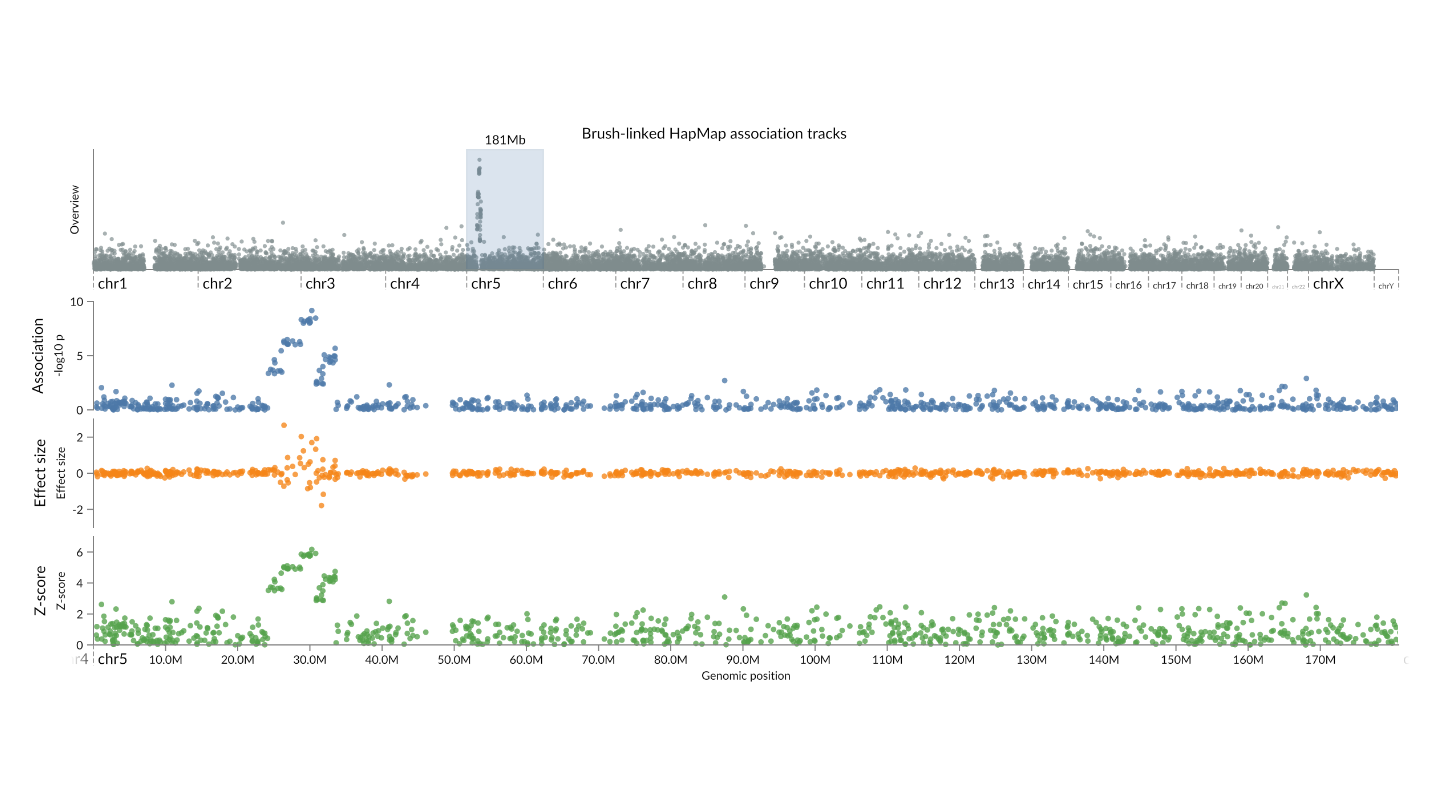
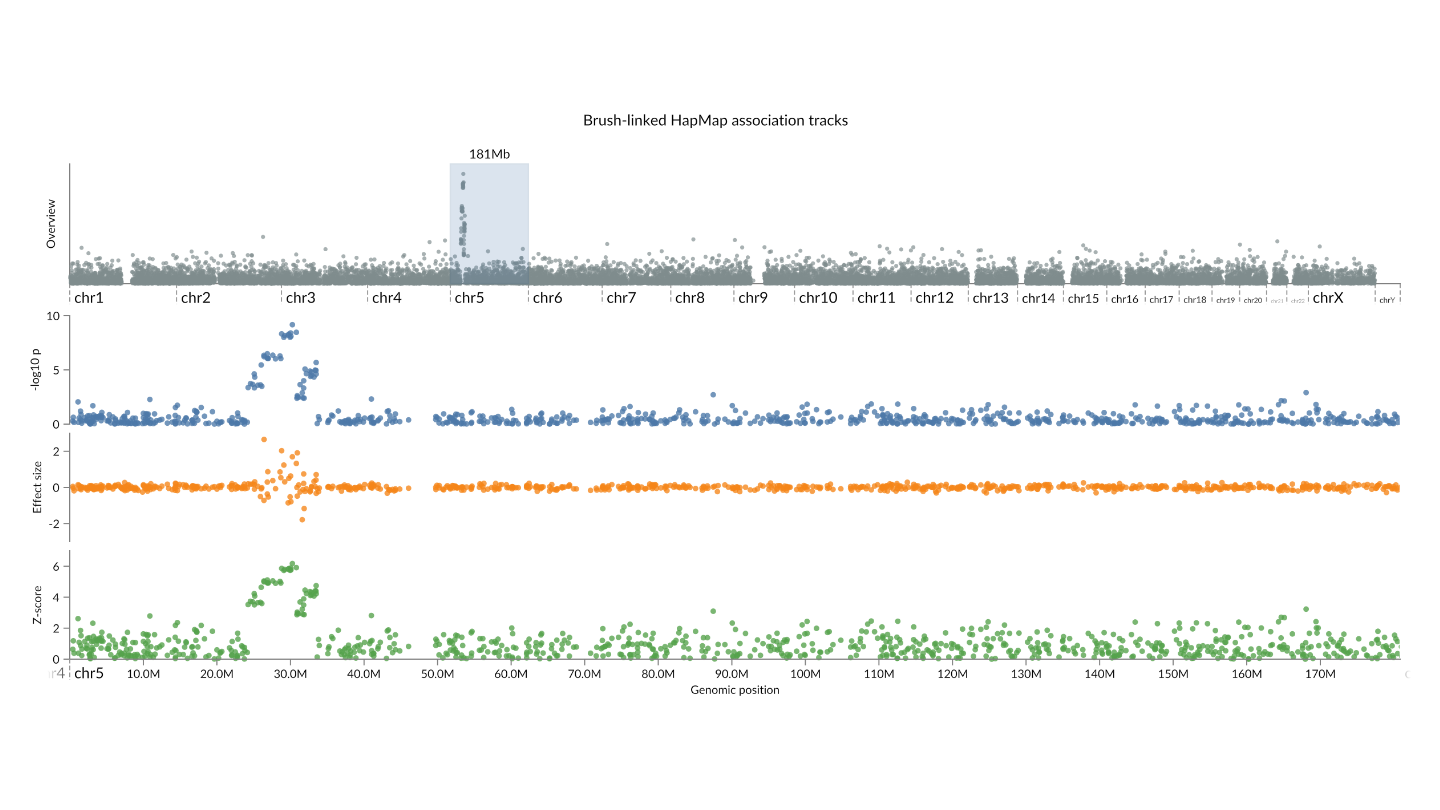
fix(docs): polish linked brush gallery

diff --git a/docs/examples/brush_linked_genome_tracks.py b/docs/examples/brush_linked_genome_tracks.py
@@ -49,6 +49,7 @@ overview_track = (
                     type="interval",
                     encodings=["x"],
                     mark=BrushConfig(
+                        clip=False,
                         fill="#4c78a8",
                         fillOpacity=0.2,
                         stroke="#315f8c",
@@ -62,7 +63,11 @@ overview_track = (
         ],
     )
 )
-overview = gs.vconcat(overview_track).resolve_scale(x="excluded")
+overview = (
+    gs.vconcat(overview_track)
+    .properties(padding=gs.Paddings(top=24))
+    .resolve_scale(x="excluded")
+)
 
 
 association_track = (
@@ -76,7 +81,6 @@ association_track = (
     .properties(
         name="association-strength",
         height=95,
-        title=gs.title("Association", orient="left"),
     )
 )
 
@@ -91,7 +95,6 @@ effect_track = (
     .properties(
         name="effect-size",
         height=95,
-        title=gs.title("Effect size", orient="left"),
     )
 )
 
@@ -106,7 +109,6 @@ zscore_track = (
     .properties(
         name="z-score",
         height=95,
-        title=gs.title("Z-score", orient="left"),
     )
 )
 

diff --git a/tests/test_docs_gallery.py b/tests/test_docs_gallery.py
@@ -1129,12 +1129,14 @@ def test_brush_gallery_links_one_overview_to_three_detail_tracks() -> None:
 
     overview = spec["vconcat"][0]
     assert overview["resolve"] == {"scale": {"x": "excluded"}}
+    assert overview["padding"] == {"top": 24}
     brush = overview["vconcat"][0]["params"][0]
     assert brush["name"] == "brush"
     assert brush["push"] == "outer"
     assert brush["persist"] is False
     assert brush["select"]["type"] == "interval"
     assert brush["select"]["encodings"] == ["x"]
+    assert brush["select"]["mark"]["clip"] is False
 
     detail_tracks = detail_group["vconcat"]
     assert [track["name"] for track in detail_tracks] == [
@@ -1143,6 +1145,7 @@ def test_brush_gallery_links_one_overview_to_three_detail_tracks() -> None:
         "z-score",
     ]
     assert all("params" not in track for track in detail_tracks)
+    assert all("title" not in track for track in detail_tracks)
 
 
 def test_gallery_index_lists_every_example_in_hidden_navigation(

diff --git a/docs/examples/brush_linked_genome_tracks.md b/docs/examples/brush_linked_genome_tracks.md
@@ -17,6 +17,20 @@ detail tracks. Association strength, effect size, and Z-score share one locus
 scale but keep independent y scales. Zooming or panning a detail track also
 updates the overview brush.
 
+## Why use this layout?
+
+This is a real genome-browser pattern. A genome-wide plot helps find an
+interesting region, while the aligned detail tracks make that region readable.
+The overview also shows where the current window is, so users do not lose their
+place while zooming.
+
+The three metrics here intentionally reuse one small dataset to keep the brush
+example focused. Association strength and Z-score contain related information,
+so this exact combination is illustrative rather than a recommended GWAS
+dashboard. A research browser could replace one of them with genes, linkage
+disequilibrium, regulatory annotations, or sequencing coverage while keeping
+the same linked-brush structure.
+
 ## Python implementation
 
 The outer composition declares an empty `brush` parameter. The nested detail
